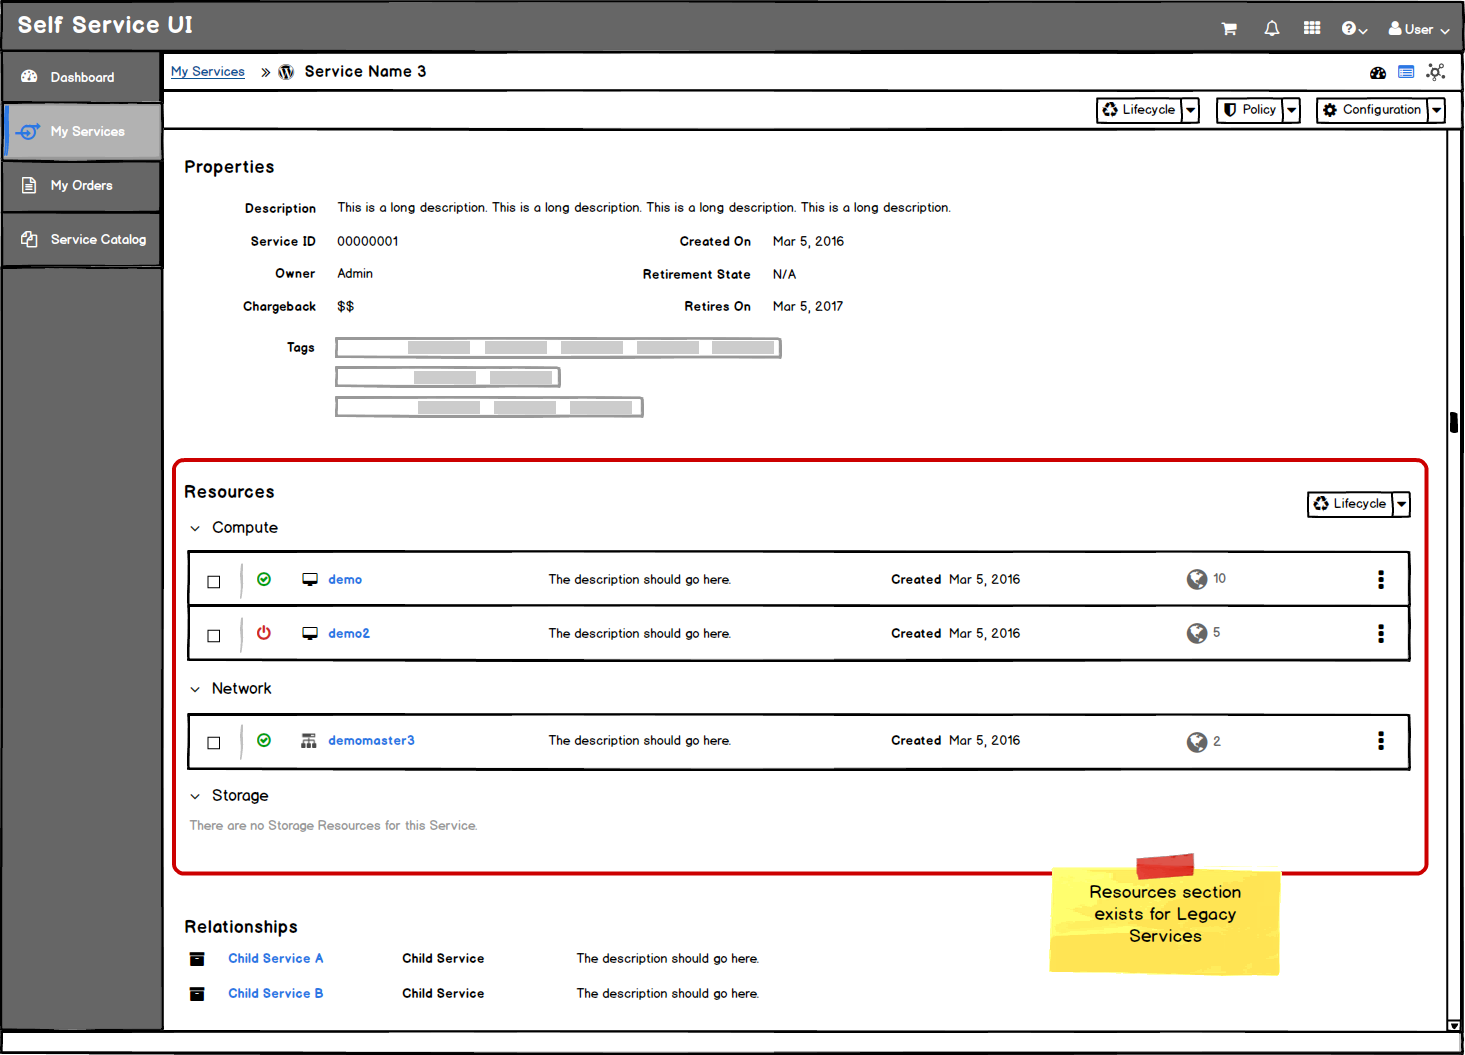
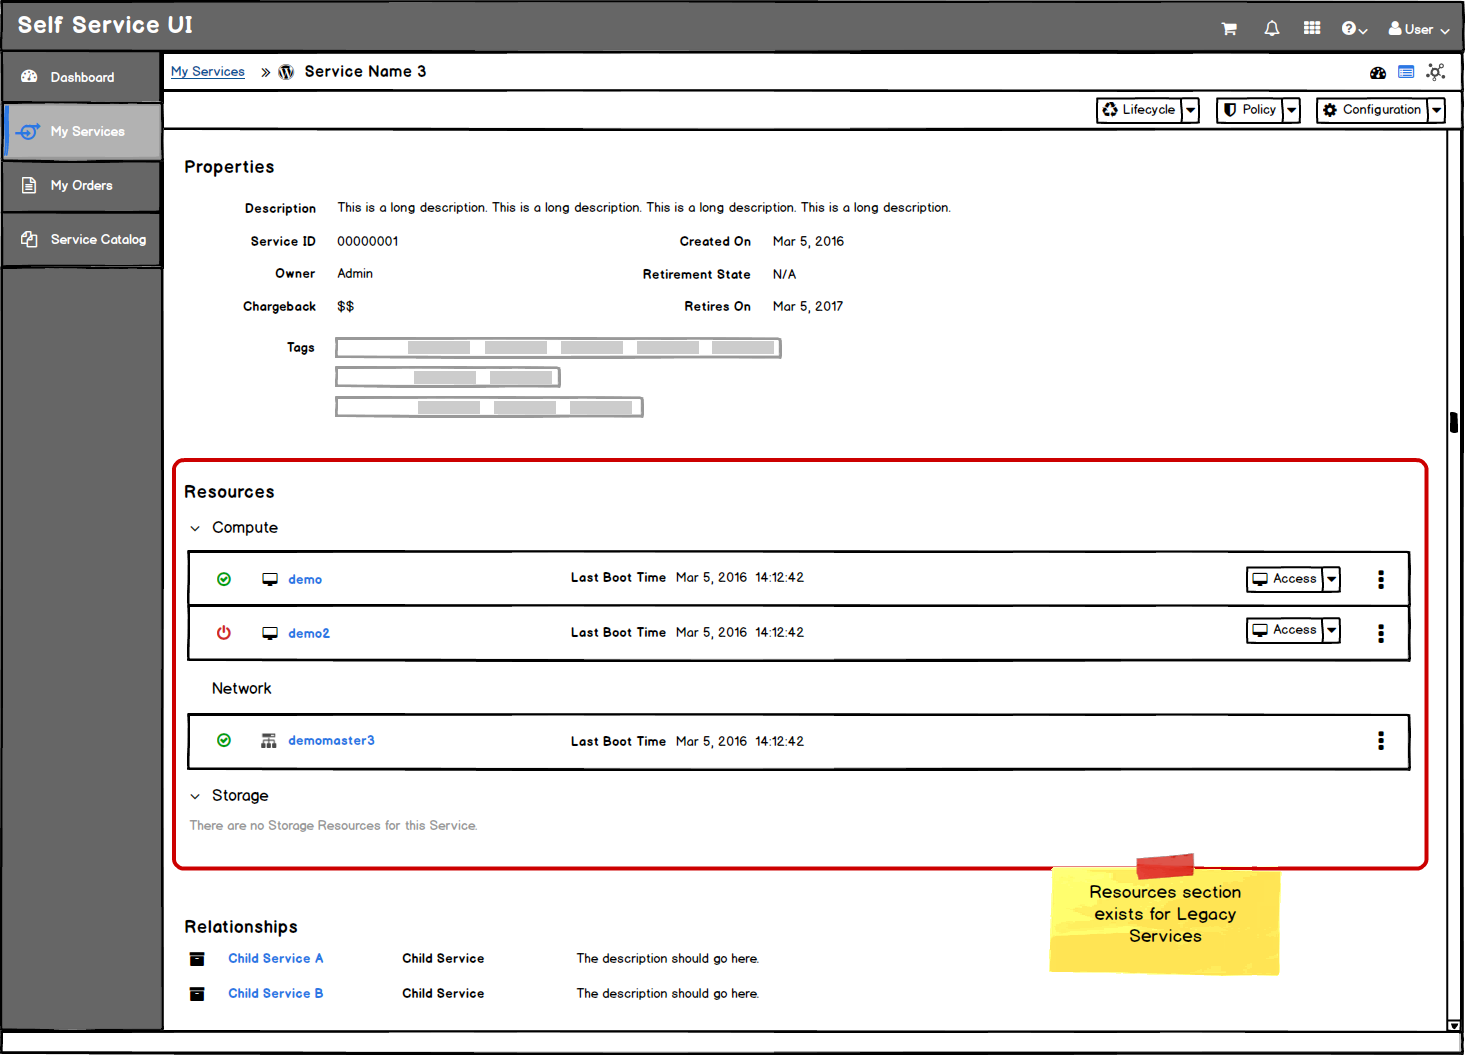
Adding details around actions and button groups.

diff --git a/UX/ui-service/MyServices/design.md b/UX/ui-service/MyServices/design.md
@@ -10,6 +10,8 @@
 ## List View
 * A List View is the default view for My Services and it will not show all fields in this view.
 * Bulk actions can be accessed through the button groups at the top of the list.
+* Custom button groups will be added to the left of the standard button groups. To conserve space, the button group labels are removed in this view.
+* All actions will also be available in the kebab menu for acting on a single service.
 ![Image of List View.](img/Services-ListView.png)
 * The Service Names are links and will bring the user to a service details page.
 * Resources will be shown for legacy services when a VM, Network, or Storage resource exists. For Ansible services, the playbook name should appear for this column instead and for Ansible Tower services, the template name should appear here.
@@ -27,6 +29,8 @@
 * The service details will include the following view types: summary view, utilization dashboard, and topology view. The default should be the Summary View.
 
 ### Service Details - Summary View
+* Actions can be accessed through the button groups at the top of the page.
+* Custom button groups will be added to the left of the standard button groups. Button labels should be included in this view.
 * The properties section at the top of the summary view will be consistent for ALL services.
 ![Image of Detail View for a Service.](img/Services-GenericDetailView.png)
 * Properties will consist of general information, including tags. Utilization properties will be excluded from this section and will show up in the dashboard view instead.
@@ -38,6 +42,7 @@
 * Resources will be divided into sections or headings (Compute, Network, and Storage). Each section can expand and collapse, with a compact list view of resources underneath.
 
 * Individual resources will be listed as links so users can drill down to a specific resource details view.
+* The resources list view will have access control actions available for launching a console and all other resource actions will be listed under the kebab menu.
 ![Image of Detail View for a Resource.](img/Services-ResourceDetails.png)
 * Relationships will be the next section after Resources. Child Services will be listed as links here and will bring the user to the Child Service Summary View.
 
